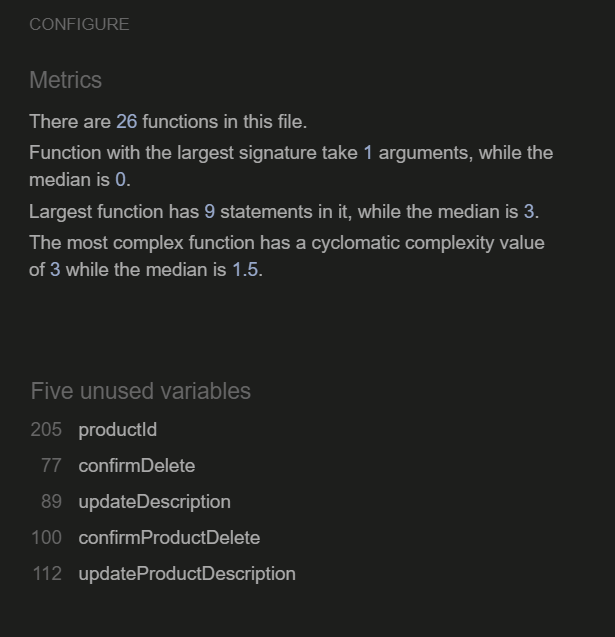
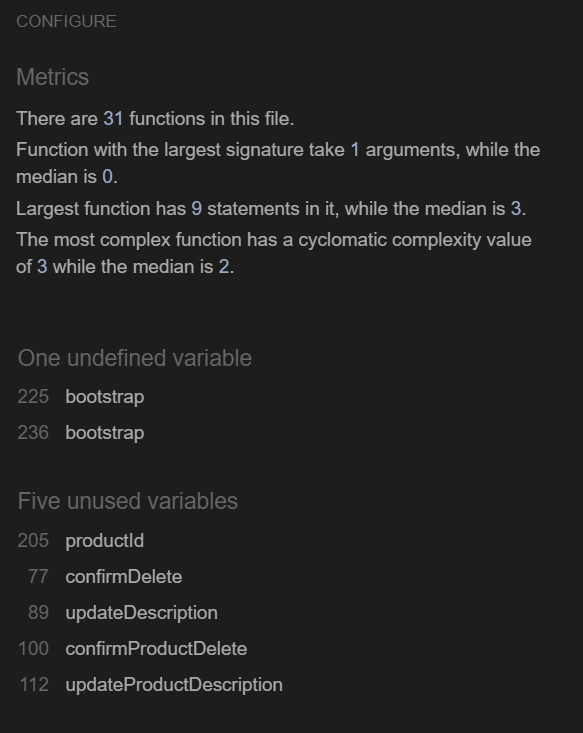
Update readme js testing and formated python and js code

diff --git a/website/views.py b/website/views.py
@@ -188,7 +188,7 @@ def delete_product(request, product_id):
     if request.method == 'POST':
         product = get_object_or_404(AddProduct, pk=product_id)
         product.delete()
-        
+
         messages.success(request, 'Product deleted successfully!')
         return redirect('recommended')
     return redirect('recommended')

diff --git a/README.md b/README.md
@@ -823,7 +823,7 @@ JSHINT:
 script.js tested with following results:
 ![Alt text](/static/readme/jshint.png)
 
-Variables marked as unused are in fact used and called on click in various areas of the code.
+Variables marked as unused or undefined are in fact used and called on click in various areas of the code.
 ```JavaScript
 /*jshint esversion: 6 */
 /* global $ */
